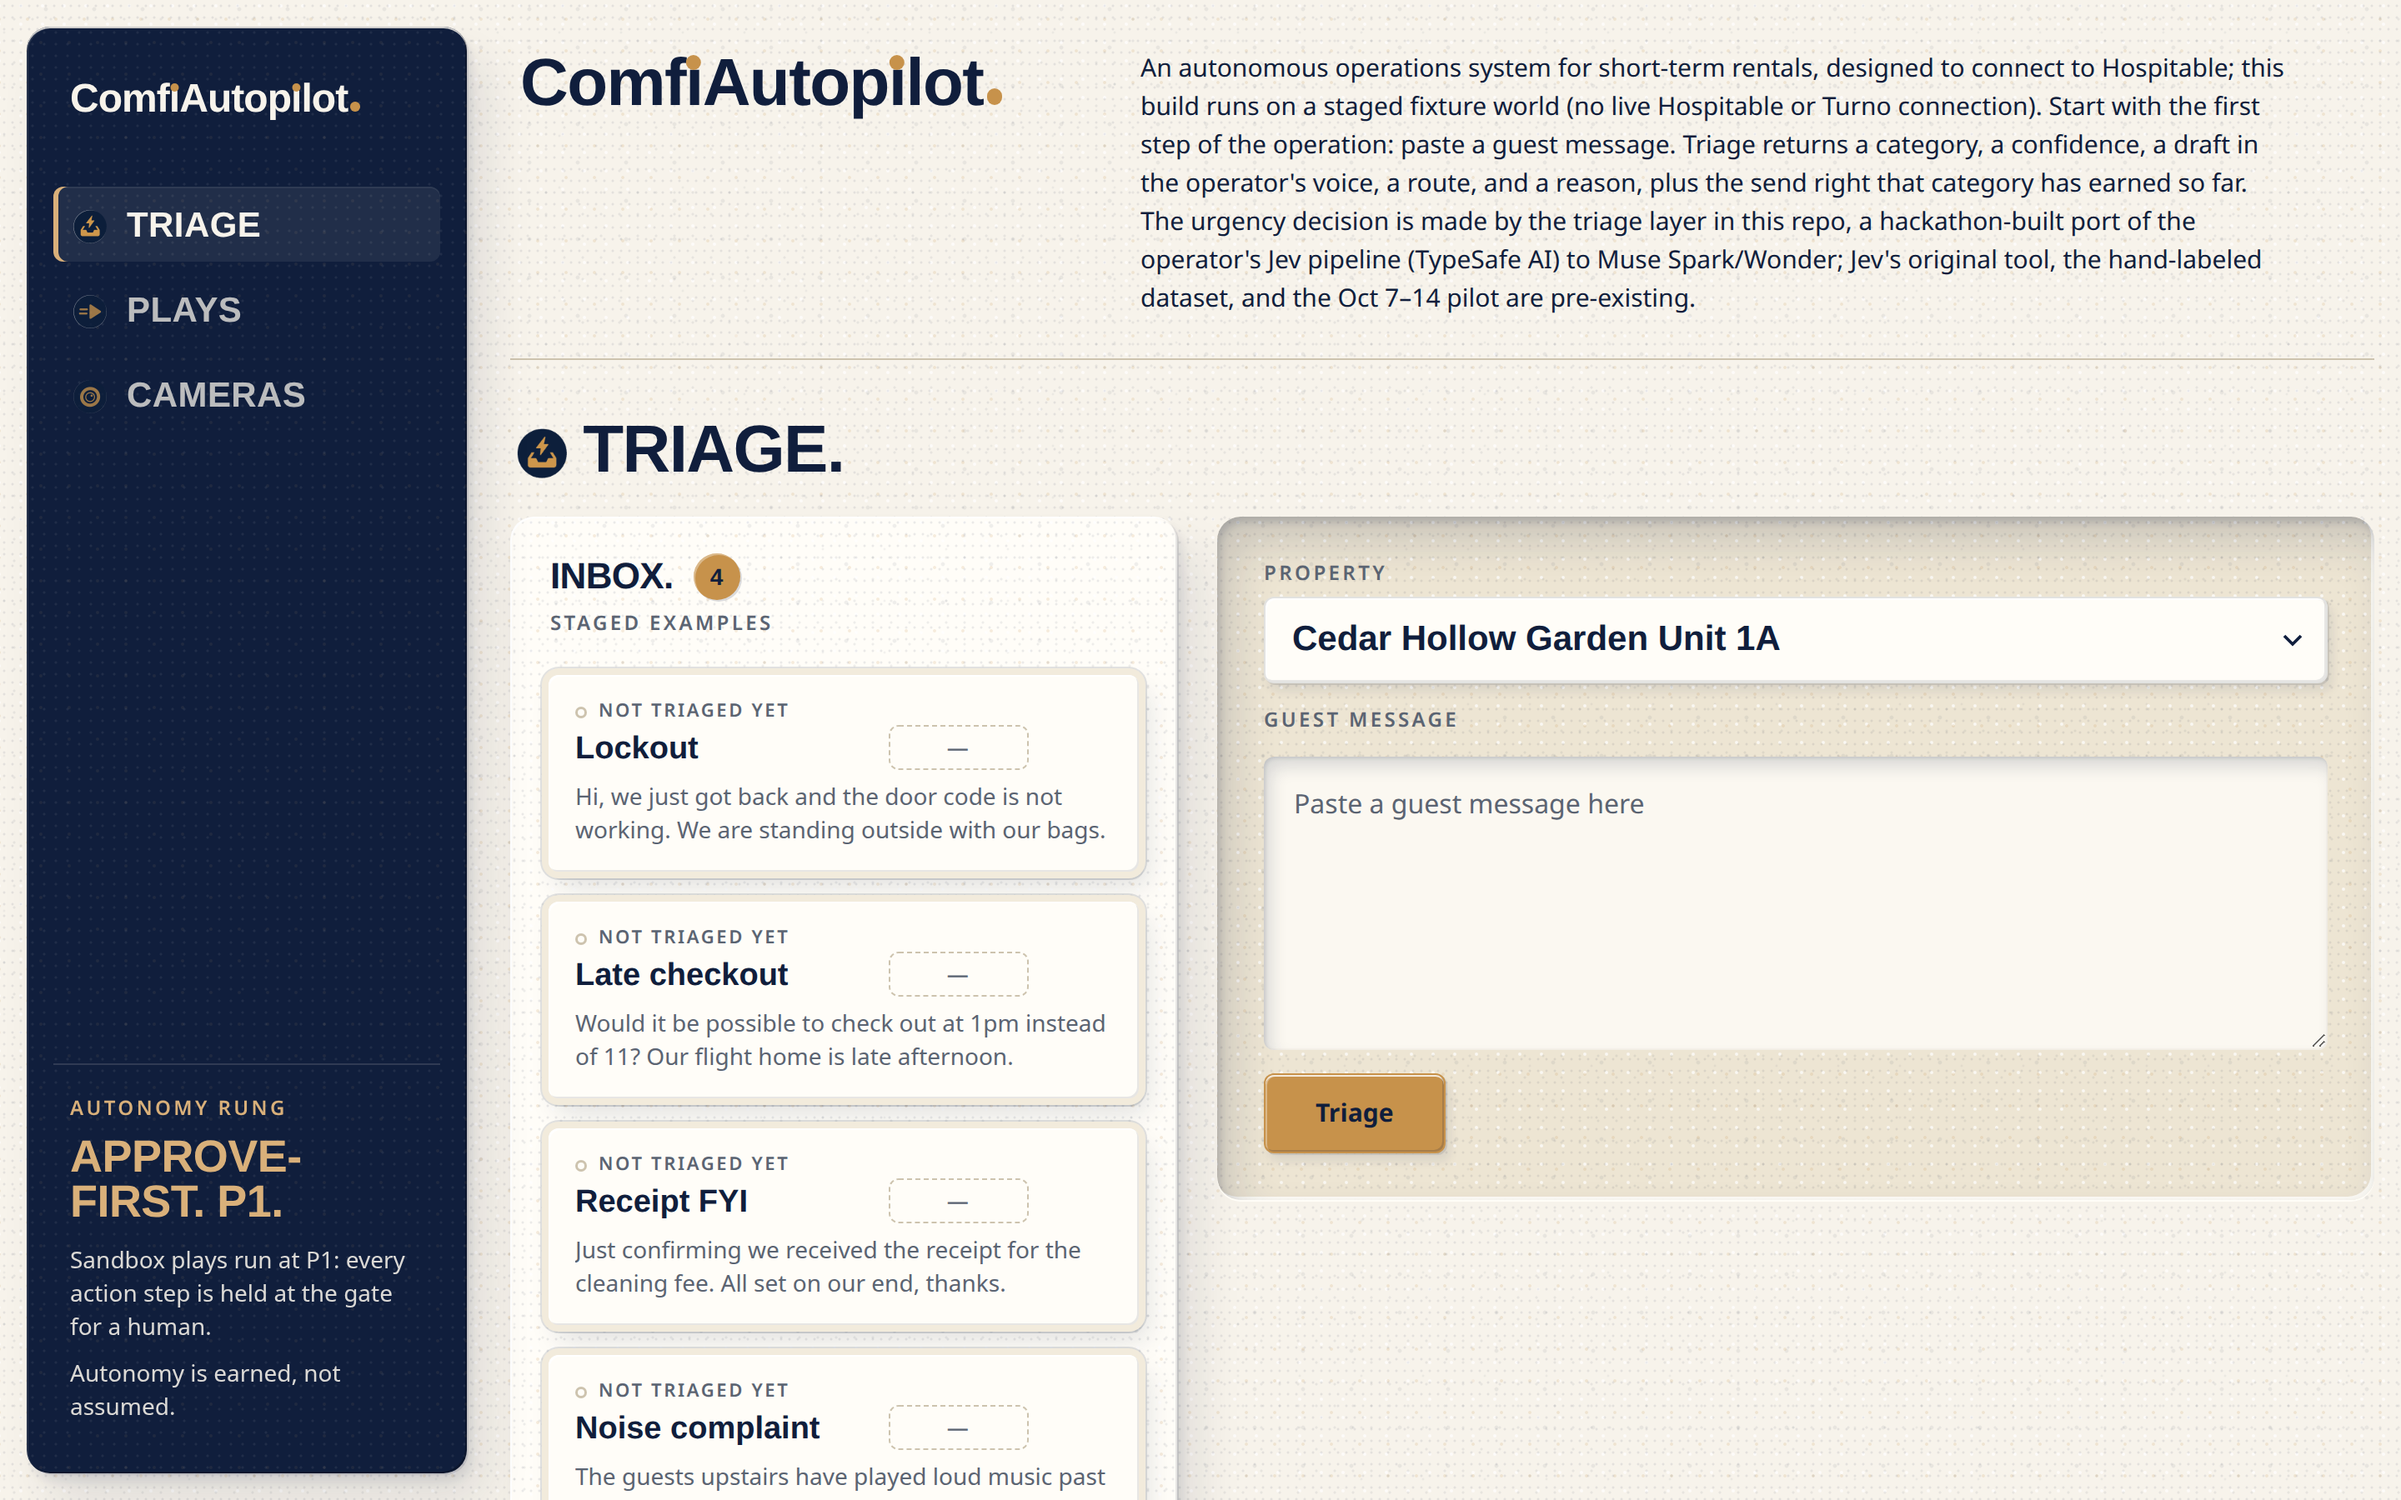
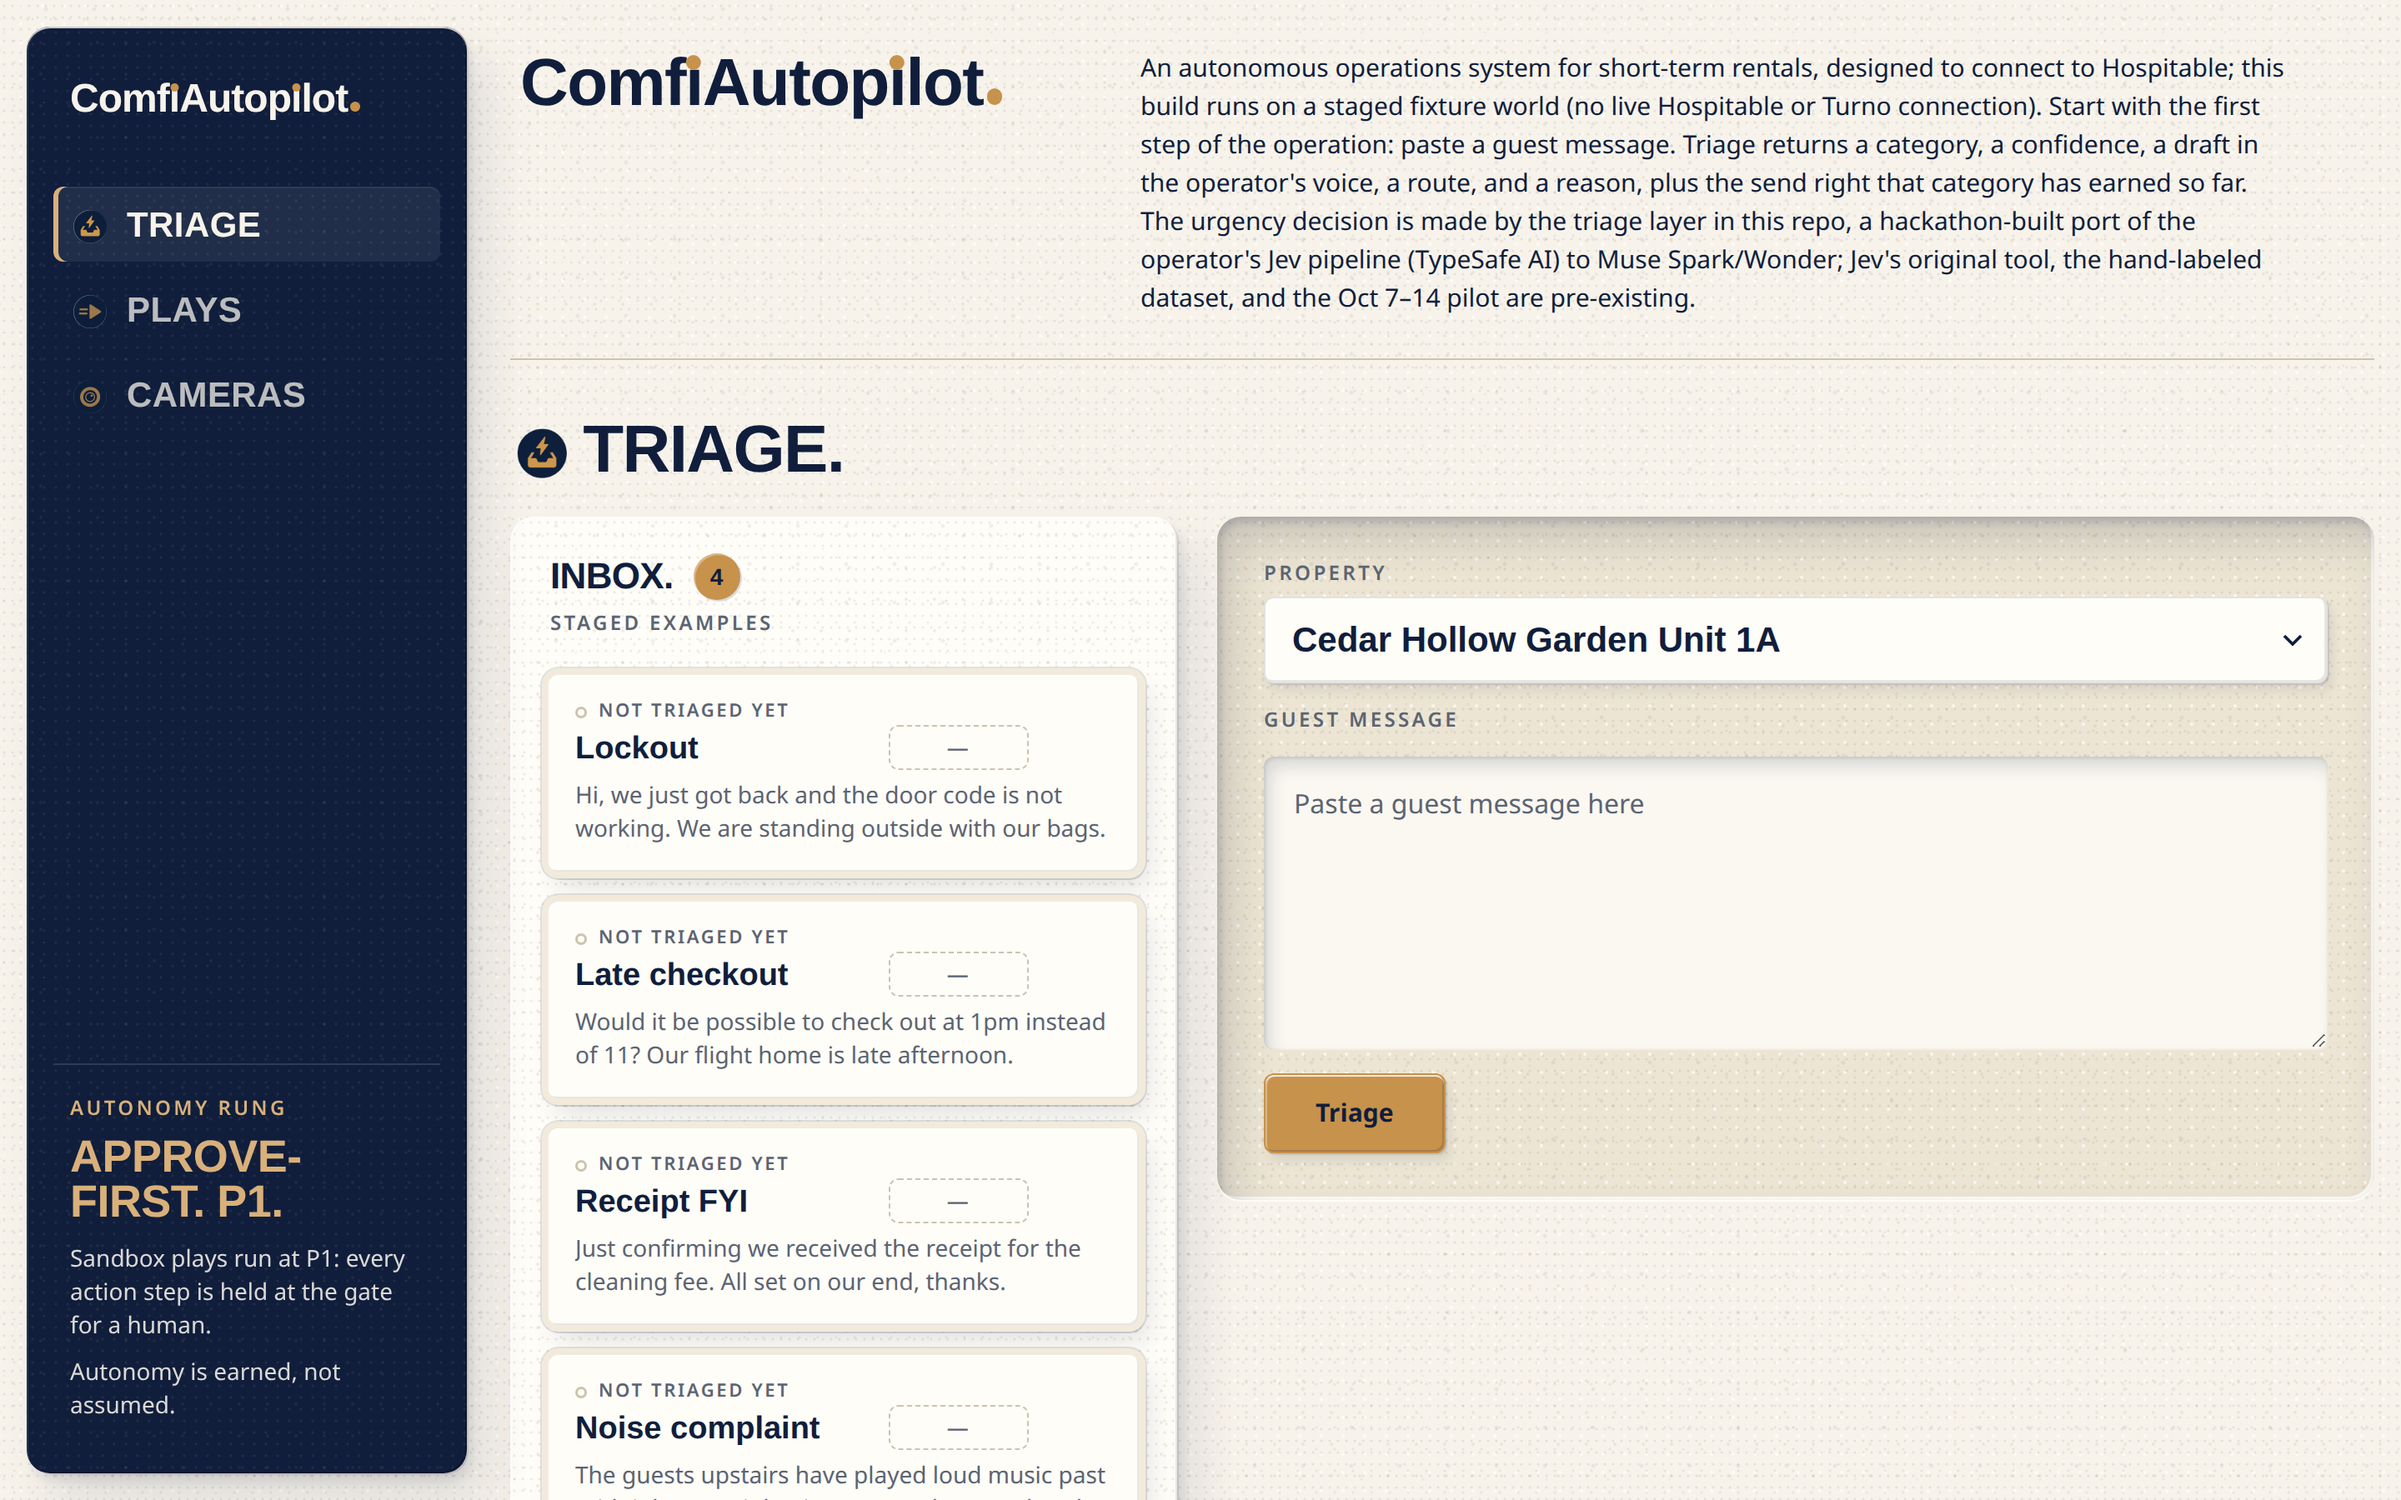
design: remove the last numbered markers (late/camera play heads, timeline steps)
The 05 and 06 play heads still carried numbers (missed in the symbol
pass when a grep output truncated), and run timelines prefixed every
step with its ordinal. Heads now carry the late-checkout and cameras
icons; timeline steps lead with a small amber diamond. No numbered
markers remain anywhere on the page. 285 tests passing.

diff --git a/sandbox/index.html b/sandbox/index.html
@@ -307,6 +307,8 @@
   .step > div { margin-top: 6px; }
   .step ul { margin: 6px 0 0; padding-left: 20px; }
   .step .sname { font: 700 15px/20px var(--font-display); }
+  .step-mk { display: inline-block; width: 7px; height: 7px; margin-right: 9px;
+             background: var(--amber); transform: rotate(45deg); vertical-align: 2px; }
   .kind { display: inline-block; margin-left: 8px; padding: 3px 7px; border-radius: var(--r-sm); vertical-align: 1px;
           background: rgba(16,30,60,.08); font: 700 11px/1 var(--font-text); letter-spacing: .1em; text-transform: uppercase; }
   .kind.k-action { background: var(--tan); color: var(--navy); }
@@ -605,7 +607,7 @@
       </article>
 
       <article class="play panel" id="play-late" aria-labelledby="h-late">
-        <div class="play-head"><span class="num" aria-hidden="true">05</span><h3 id="h-late">Play: special request → late checkout</h3></div>
+        <div class="play-head"><span class="num ic ic-late" aria-hidden="true"></span><h3 id="h-late">Play: special request → late checkout</h3></div>
         <div class="play-grid">
           <div class="play-ctl">
             <p>A departing guest asks to check out late. Comfi Autopilot reads the staged calendar for
@@ -633,7 +635,7 @@
     <section id="cameras" class="cams" aria-labelledby="h-cameras">
       <div class="sec-head"><h2 class="display sec-title" id="h-cameras"><span class="sec-s ic ic-cameras" aria-hidden="true"></span>Cameras</h2></div>
       <article class="play panel" aria-labelledby="h-cam">
-      <div class="play-head"><span class="num" aria-hidden="true">06</span><h3 id="h-cam">Play: camera check</h3></div>
+      <div class="play-head"><span class="num ic ic-cameras" aria-hidden="true"></span><h3 id="h-cam">Play: camera check</h3></div>
       <div class="cam-desc">
       <p>An outside camera reports motion — no message from anyone. Comfi Autopilot classifies
          the staged frame, checks it against the staged calendar, and either logs it
@@ -843,7 +845,7 @@
       if (run.hold_reason) h += '<br><span class="err">Held for a human: ' + esc(run.hold_reason) + '</span>';
       h += '</div>';
       run.steps.forEach((s, i) => {
-        h += '<div class="step s-' + esc(s.status) + '"><span class="sname">' + (i + 1) + '. ' +
+        h += '<div class="step s-' + esc(s.status) + '"><span class="sname"><span class="step-mk" aria-hidden="true"></span>' +
           esc(s.name) + '</span><span class="kind k-' + esc(s.kind) + '">' + esc(s.kind) +
           '</span> · <span class="status">' + esc(s.status) + '</span>';
         if (s.kind === 'action')
